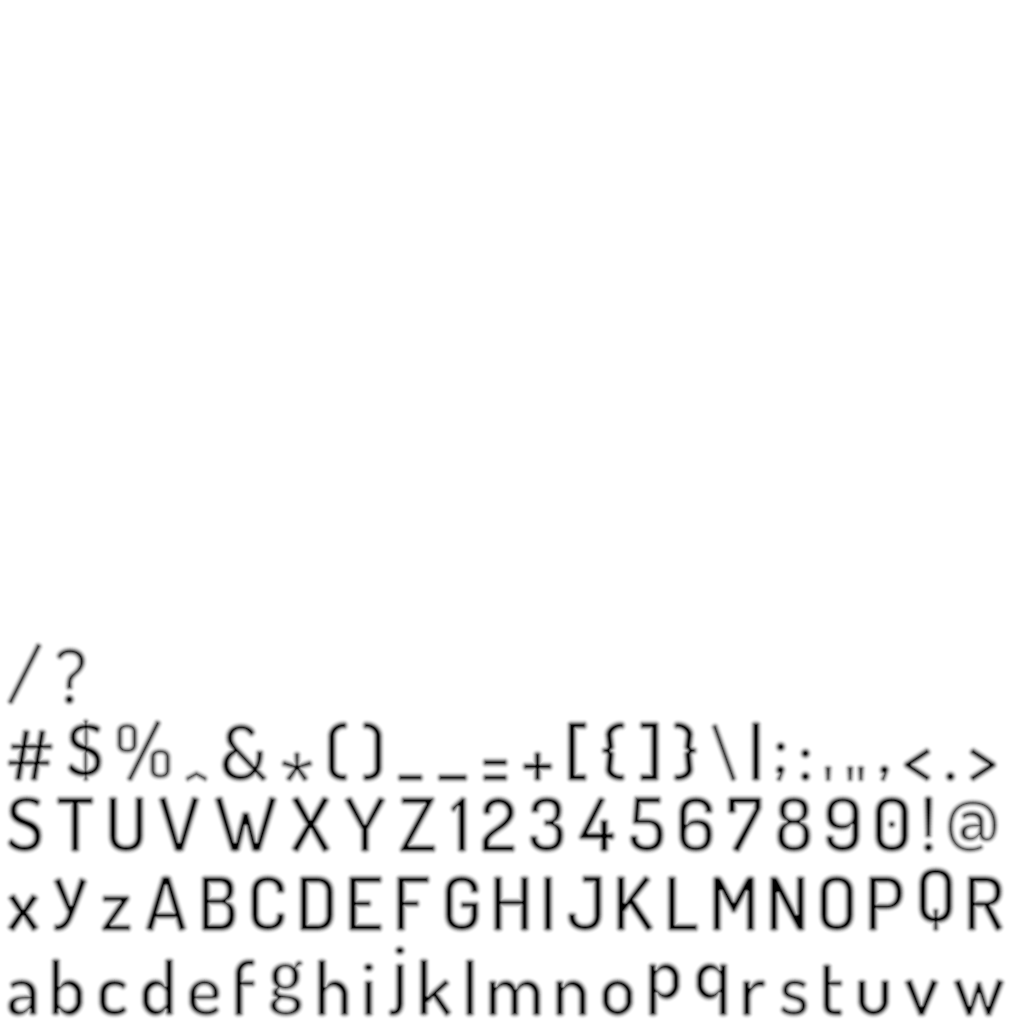
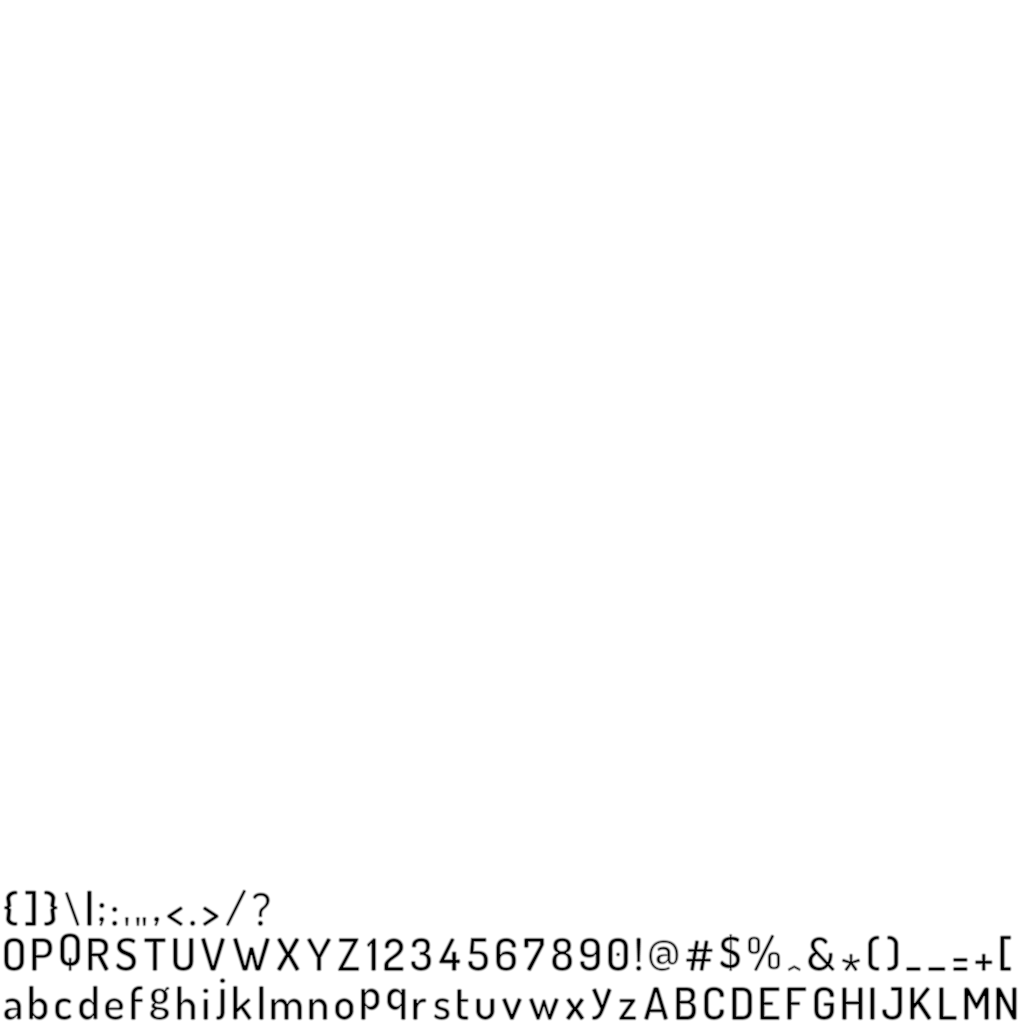
sdf font gen works like a charm

Changed region(s): [[0.0, 0.625, 1.0, 1.0]]

diff --git a/core/src/com/phonygames/pengine/util/game/PUtilGameFontGen.java b/core/src/com/phonygames/pengine/util/game/PUtilGameFontGen.java
@@ -22,7 +22,7 @@ public class PUtilGameFontGen {
         "D:/Coding/pengine2/assets-raw/freetype/" + fontFileName), 750);
     DEBUG_sdfGen = new PSDFGenerator(1024);
     //    DEBUG_fGen.gen('M',DEBUG_sdfGen,.1f, 8);
-    DEBUG_fGen.genAll(DEBUG_sdfGen, .1f, 8);
+    DEBUG_fGen.genAll(DEBUG_sdfGen, .06f, 4);
     DEBUG_sdfGen.emitToFile(Gdx.files.local("engine/font/fontsdf.png"));
     if (DEBUG_fGen != null) {
       PApplicationWindow.drawTextureToScreen(DEBUG_fGen.previewRenderBufferTexture());
@@ -39,12 +39,15 @@ public class PUtilGameFontGen {
                                            Gdx.files.local("engine/shader/sdf/sdf.frag.glsl"), new String[]{"color"});
     testFontRenderBuffer.spriteBatch().setShader(renderTextShader);
     PTexture texture = new PTexture();
-    texture.set(new Texture(Gdx.files.internal("engine/font/fontsdf.png")));
+    Texture t = new Texture(Gdx.files.internal("engine/font/fontsdf.png"));
+    t.setFilter(Texture.TextureFilter.Linear, Texture.TextureFilter.Linear);
+    texture.set(t);
     testFontRenderBuffer.spriteBatch().begin();
     renderTextShader.start(testFontRenderBuffer.spriteBatch().renderContext());
+    float drawScale = 10;
     testFontRenderBuffer.spriteBatch()
-                        .draw(texture, 0, 512, PColor.WHITE, 512, 512, PColor.WHITE, 512, 0, PColor.WHITE, 0, 0,
-                              PColor.WHITE);
+                        .draw(texture, 0, 512 * drawScale, PColor.WHITE, 512 * drawScale, 512 * drawScale, PColor.WHITE,
+                              512 * drawScale, 0, PColor.WHITE, 0, 0, PColor.WHITE);
     testFontRenderBuffer.spriteBatch().end();
     renderTextShader.end();
     testFontRenderBuffer.end();
